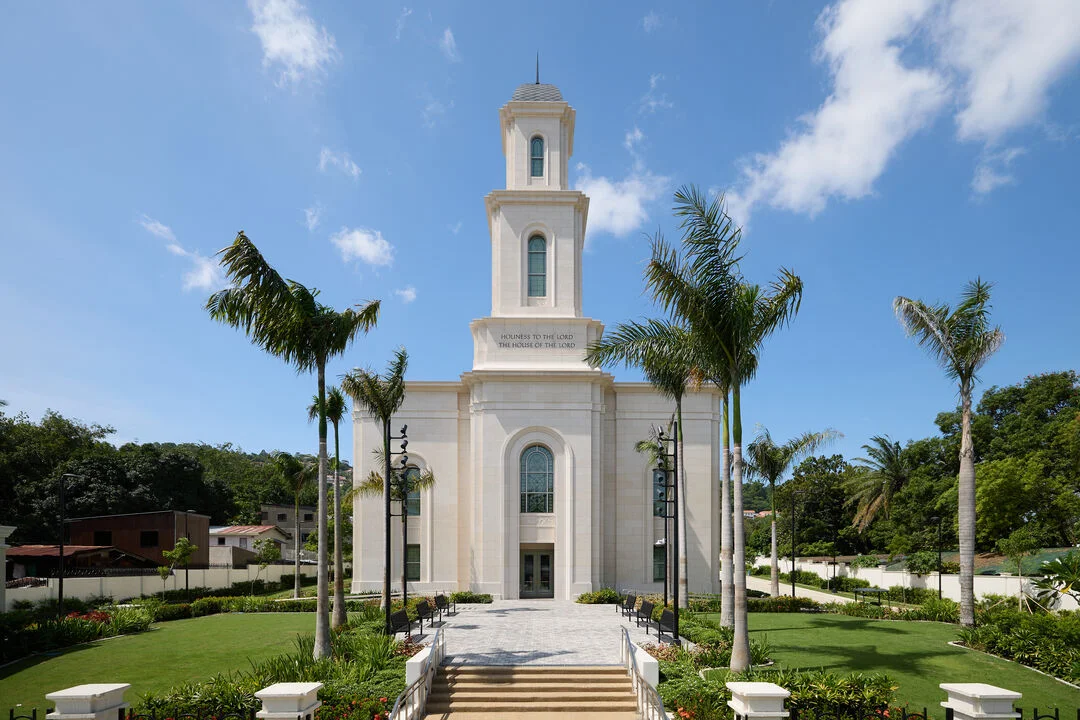
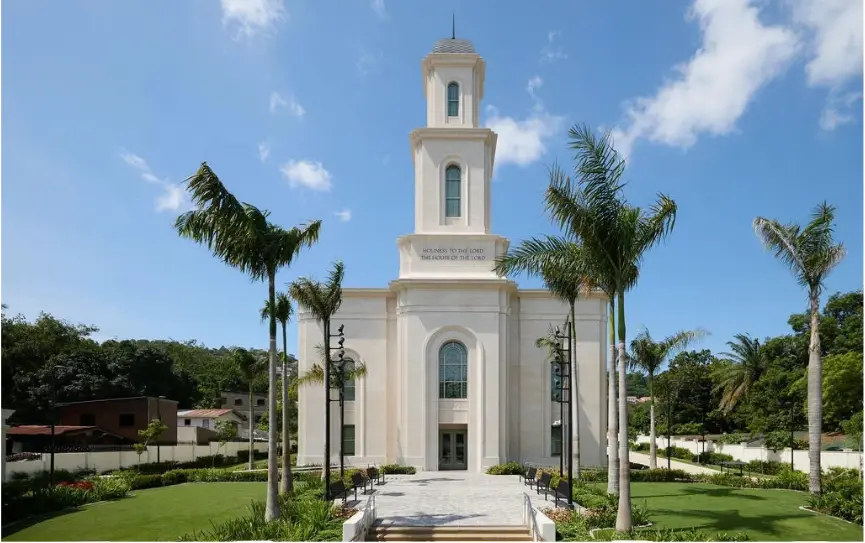
temple image update 3

diff --git a/scripts/filtered-temples.js b/scripts/filtered-temples.js
@@ -69,21 +69,21 @@ const temples = [
         "location": "Davao City, Davao del Sur, Philippines",
         "dedicated": "2026, May, 3",
         "area": 18450,
-        "imageUrl": "https://churchofjesuschristtemples.org/assets/img/temples/davao-philippines-temple/davao-philippines-temple-69513-main.jpg"
+        "imageUrl": "../images/davao-temple.webp"
     },
     {
         "templeName": "Manila Philippines",
         "location": "Quezon City, Metro Manila, Philippines",
         "dedicated": "1984, September, 25",
         "area": 26683,
-        "imageUrl": "https://encrypted-tbn0.gstatic.com/images?q=tbn:ANd9GcTQATgt0IArjLAvA_e-JneODThEEQ5TDj7BnNMnPZrqZFs7JtRbxr_kriU&s=10"
+        "imageUrl": "../images/manila-temple.webp"
     },
     {
         "templeName": "Cebu City Philippines",
         "location": "Cebu City, Cebu, Philippines",
         "dedicated": "2010, June, 13",
         "area": 29556,
-        "imageUrl": "https://encrypted-tbn0.gstatic.com/images?q=tbn:ANd9GcTj_VgRBJ49KWR58BCsnNuZ5fiw6JxfKwSCPsmG2hfsEOUK281T2mJW3PTD&s=10"
+        "imageUrl": "../images/cebu-temple.webp"
     },
 
 ];
@@ -130,7 +130,7 @@ function createTempleCard(name, location, date, size, imgUrl) {
     cardDedication.classList.add("temple-dedicated");
     cardArea.classList.add("temple-size");
     cardImg.setAttribute("alt", `${name} temple image`);
-    cardImg.setAttribute("loading", "lazy");
+
 
     //adding values
     cardTitle.textContent = name;
@@ -138,6 +138,10 @@ function createTempleCard(name, location, date, size, imgUrl) {
     cardDedication.textContent = date;
     cardArea.textContent = size;
     cardImg.setAttribute("src", imgUrl);
+    cardImg.setAttribute("loading", "lazy");
+    cardImg.setAttribute("width", "277");
+    cardImg.setAttribute("height", "174");
+
 
     //appending to card
     card.appendChild(cardTitle);

diff --git a/filtered-temples.html b/filtered-temples.html
@@ -9,8 +9,8 @@
         content="Personal profile page for Leo Alfred A. Mosquera, built for WDD 131 - Dynamic Web Fundamentals. Shares author info and key personal facts.">
     <meta name="author" content="Leo Alfred A. Mosquera">
 
-    <link rel="stylesheet" href="styles/filtered-temples.css">
-    <link rel="stylesheet" href="styles/filtered-temples-large.css">
+    <link rel="stylesheet" href="/styles/filtered-temples.css" media="print" onload="this.media='all'">
+    <link rel="stylesheet" href="/styles/filtered-temples-large.css" media="print" onload="this.media='all'">
 
     <link rel="preconnect" href="https://fonts.googleapis.com">
     <link rel="preconnect" href="https://fonts.gstatic.com" crossorigin>
